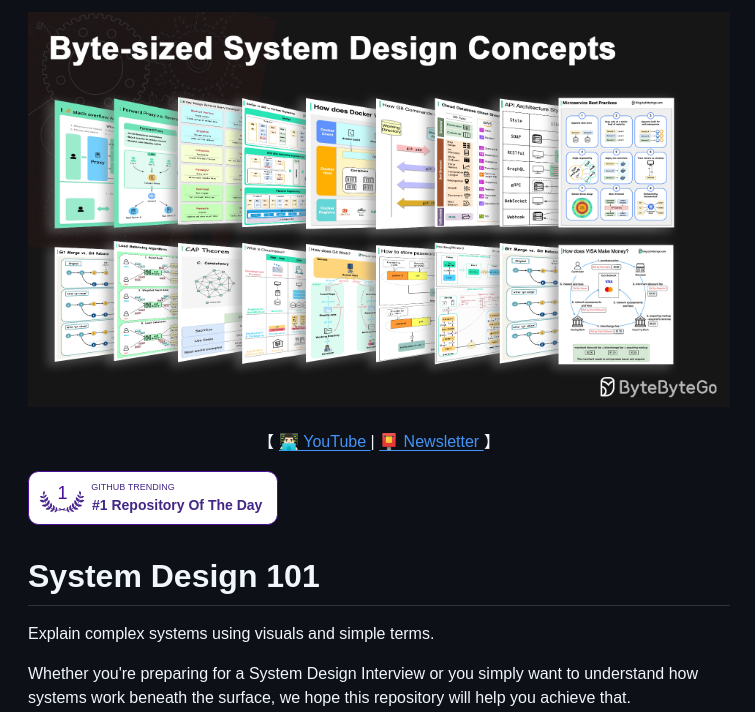
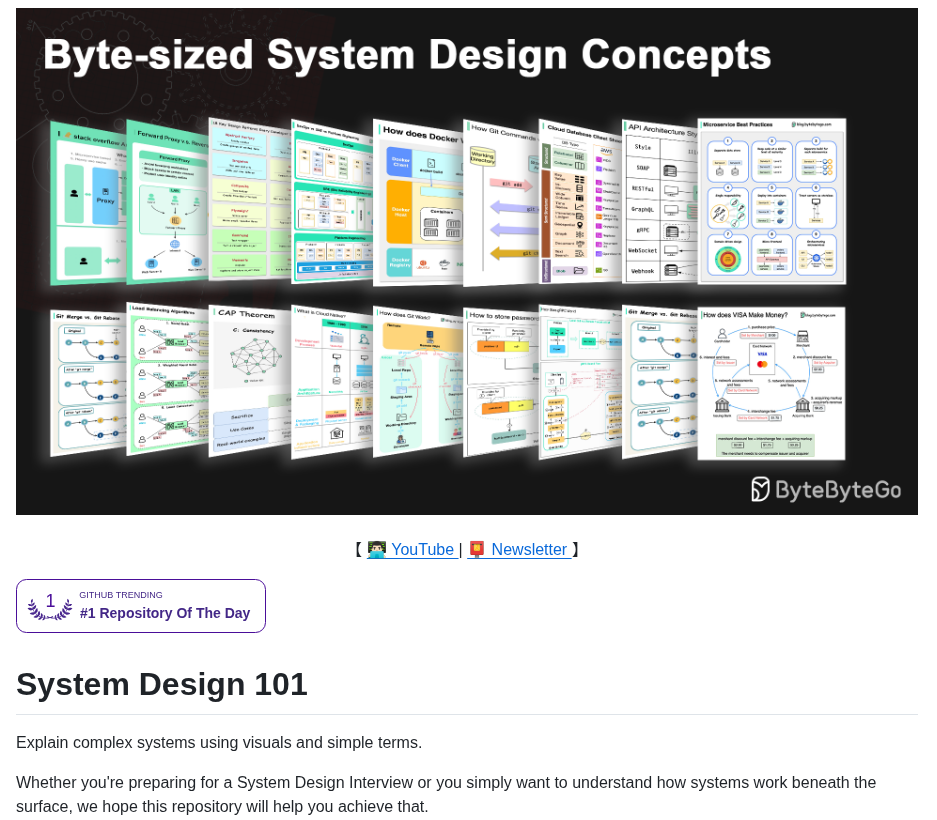
Add post: 2025-07-19-ByteByteGoHq-system-design-101.md

diff --git a/docs/_posts/2025-07-19-ByteByteGoHq-system-design-101.md b/docs/_posts/2025-07-19-ByteByteGoHq-system-design-101.md
@@ -1,0 +1,9 @@
+---
+layout: default
+date: 2025-07-19T09:34:38.251477
+image: assets/ByteByteGoHq_system-design-101_cropped.png
+---
+
+# [ByteByteGoHq/system-design-101](https://github.com/ByteByteGoHq/system-design-101)
+
+system design concepts explained with visuals
